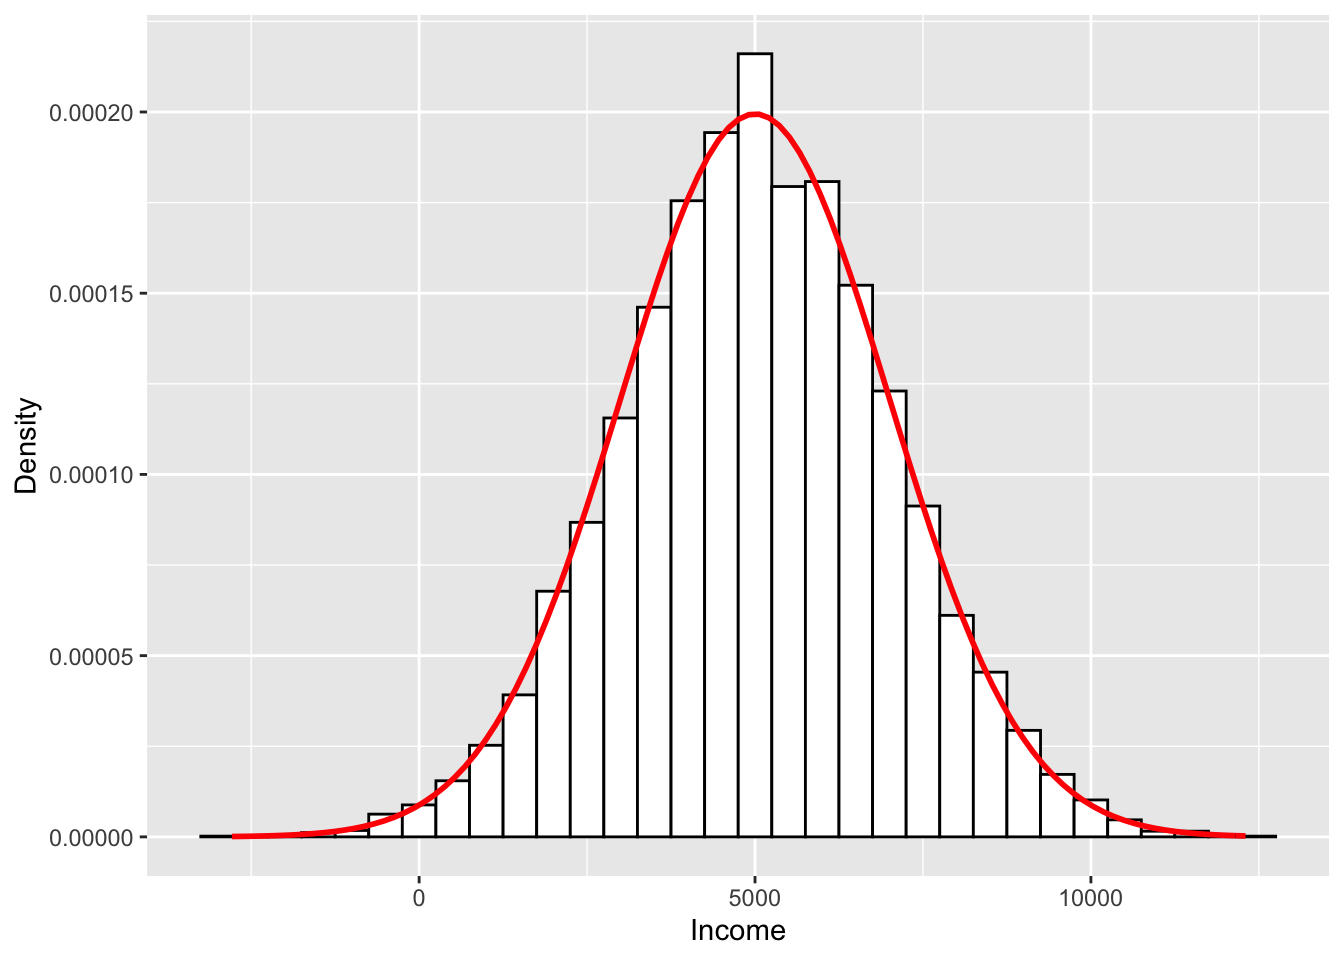
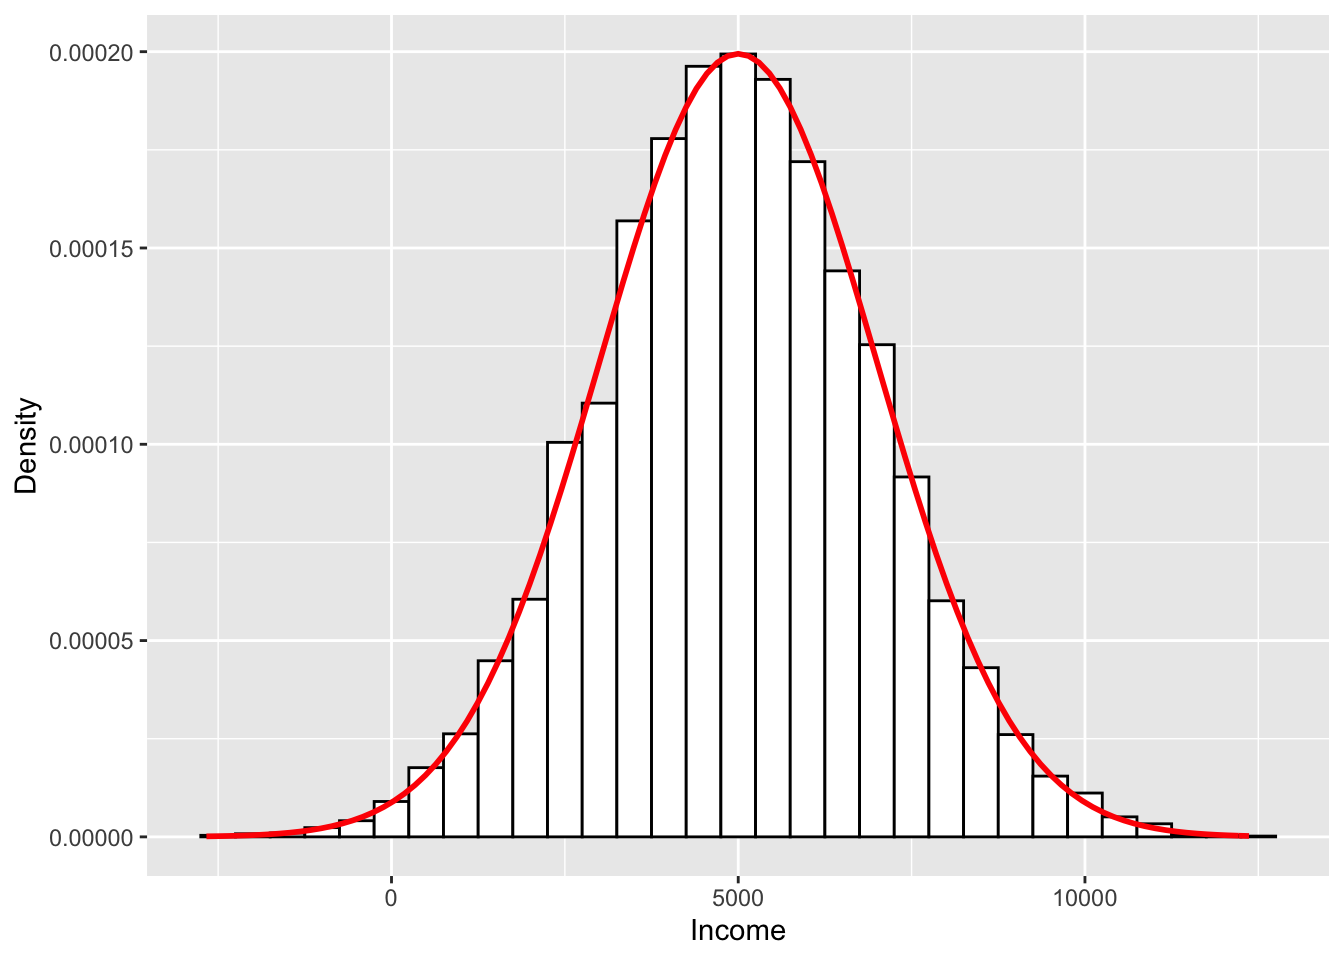
no message

diff --git a/simulation/llm/index.html b/simulation/llm/index.html
@@ -195,19 +195,19 @@
 <p>まずは、ナウル国民の所得を生成する。ナウル国民の所得は<span class="math inline">\(\text{Normal}(\mu = 5000, \sigma = 2000)\)</span>の分布をしている。</p>
 <pre class="r"><code># まずはtidyverseを読み込んでおく
 library(tidyverse)</code></pre>
-<pre><code>## ─ Attaching packages ───────────────────── tidyverse 1.3.0 ─</code></pre>
+<pre><code>## ─ Attaching packages ────────────────────── tidyverse 1.3.0 ─</code></pre>
 <pre><code>## ✓ ggplot2 3.3.1     ✓ purrr   0.3.4
 ## ✓ tibble  3.0.1     ✓ dplyr   1.0.0
 ## ✓ tidyr   1.1.0     ✓ stringr 1.4.0
 ## ✓ readr   1.3.1     ✓ forcats 0.5.0</code></pre>
-<pre><code>## ─ Conflicts ─────────────────────── tidyverse_conflicts() ─
+<pre><code>## ─ Conflicts ──────────────────────── tidyverse_conflicts() ─
 ## x dplyr::filter() masks stats::filter()
 ## x dplyr::lag()    masks stats::lag()</code></pre>
 <pre class="r"><code>nauru.income &lt;- round(rnorm(10210, mean = 5000, sd = 2000))</code></pre>
 <p>これで10210人のナウル国民の所得を設定した。ならば生成されたデータを見てみる。</p>
 <pre class="r"><code>summary(nauru.income)</code></pre>
 <pre><code>##    Min. 1st Qu.  Median    Mean 3rd Qu.    Max. 
-##   -2787    3707    5009    5028    6379   12302</code></pre>
+##   -2669    3656    4980    4991    6334   12366</code></pre>
 <p>ナウル国民の所得の平均は5017ドル、最小値は-1761だそうだ。「所得にマイナスなんてあり得るか！」と思うかも知れないが、細かいことは無視しよう。知りたいのは大数の法則を経験的に確認することであって、ナウル国民の所得ではない。</p>
 <p>次はヒストグラムで見てみよう。</p>
 <pre class="r"><code>plot1 &lt;- ggplot(data = data.frame(nauru.income)) + 

diff --git a/research/index.html b/research/index.html
@@ -250,6 +250,8 @@
 
 <li><p>[Scheduled] Woo, Yujin and <strong>Jaehyun Song</strong>. Sep. 2020. &quot;Public Perception of Migrants: Impact of Migration Policies in Japan and Korea,&quot; <em>American Political Science Association 2020 Annual Conference</em>. San Francisco:CA, USA</p></li>
 
+<li><p>[Online due to COVID-19] Uji, Azusa, Liam Beiser-McGrath, Thomas Bernauer, and <strong>Jaehyun Song</strong>. Jun. 2020. &quot;How to Design a Politically Feasible and Effective Carbon Tax? Results from a Choice Experiment in Japan.&quot; <em>6th Annual Conference of Environmental Politics and Governance.</em> Olso, Norway.</p></li>
+
 <li><p>[論文提出により報告成立] <strong>SONG Jaehyun</strong>・日野愛郎. 2020年5月「マルチレベル選挙における動員と投票疲れ：亥年現象の解明に向けて」日本選挙学会2020年度大会. 於：高知大学</p></li>
 
 <li><p>[ポスター提出により報告成立] <a href="http://hatam.sakura.ne.jp/">秦正樹</a>・<strong>SONG Jaehyun</strong>. 2020年5月「「清き一票」は重すぎる?—フィールド実験を通じた啓発効果の検証—」日本選挙学会2020年度大会. 於：高知大学 <a href="http://tintstyle.cafe24.com/Data/Research/Poster/JAES2020.pdf" target = "_blank" class = "sb">Poster</a></p></li>

diff --git a/simulation/mhp/index.html b/simulation/mhp/index.html
@@ -244,8 +244,8 @@ MH.sim &lt;- function(trials = 1000){
 table(MH.Result$if.switch)</code></pre>
 <pre><code>## 
 ##    0    1 
-## 3384 6616</code></pre>
-<p>1万回のシミュレーションの結果、選択肢を変えた場合の当たり率は66.16%、変えなかった場合は33.84%であり、ほぼ2倍になることが分かる。</p>
+## 3371 6629</code></pre>
+<p>1万回のシミュレーションの結果、選択肢を変えた場合の当たり率は66.29%、変えなかった場合は33.71%であり、ほぼ2倍になることが分かる。</p>
 </div>
 </div>
 
